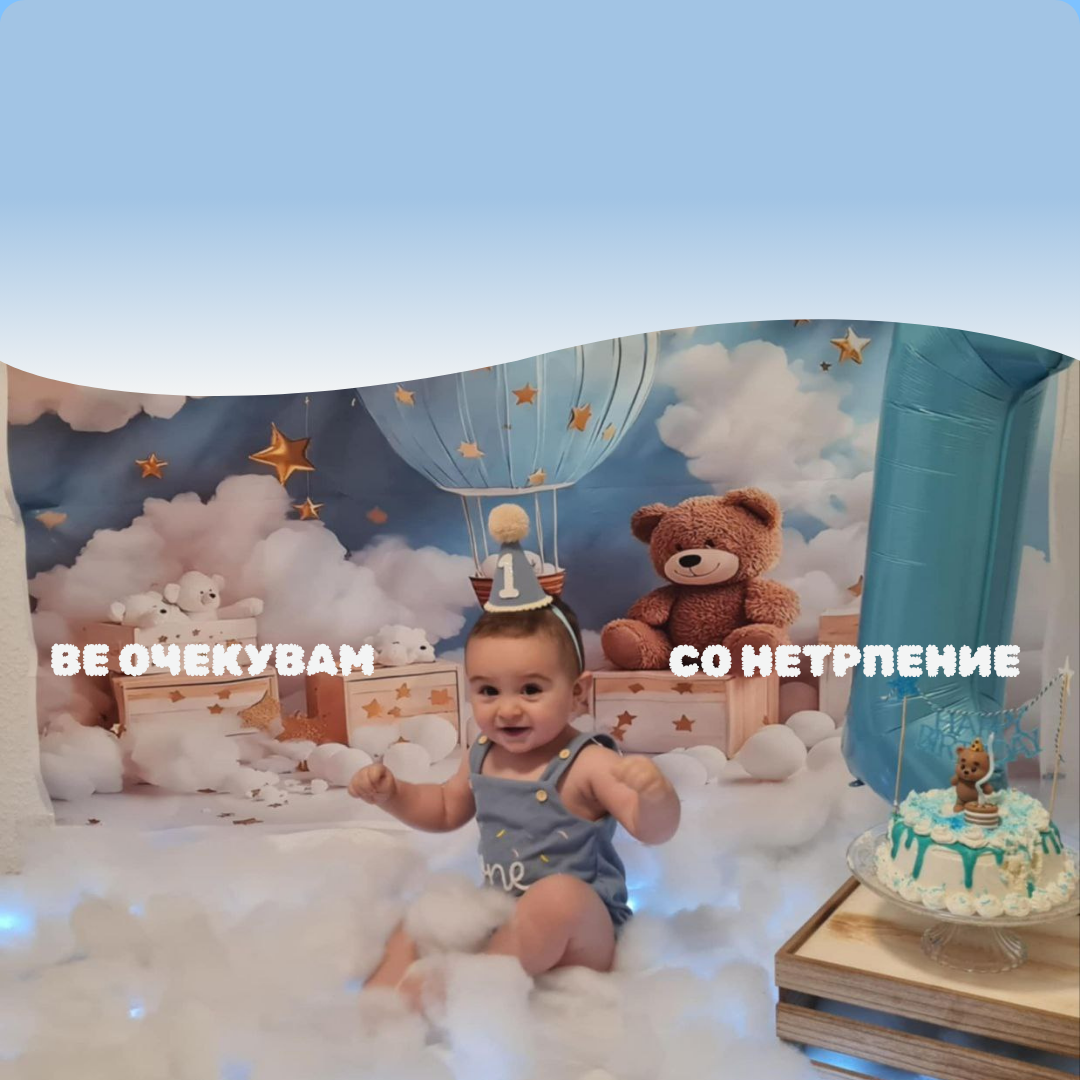
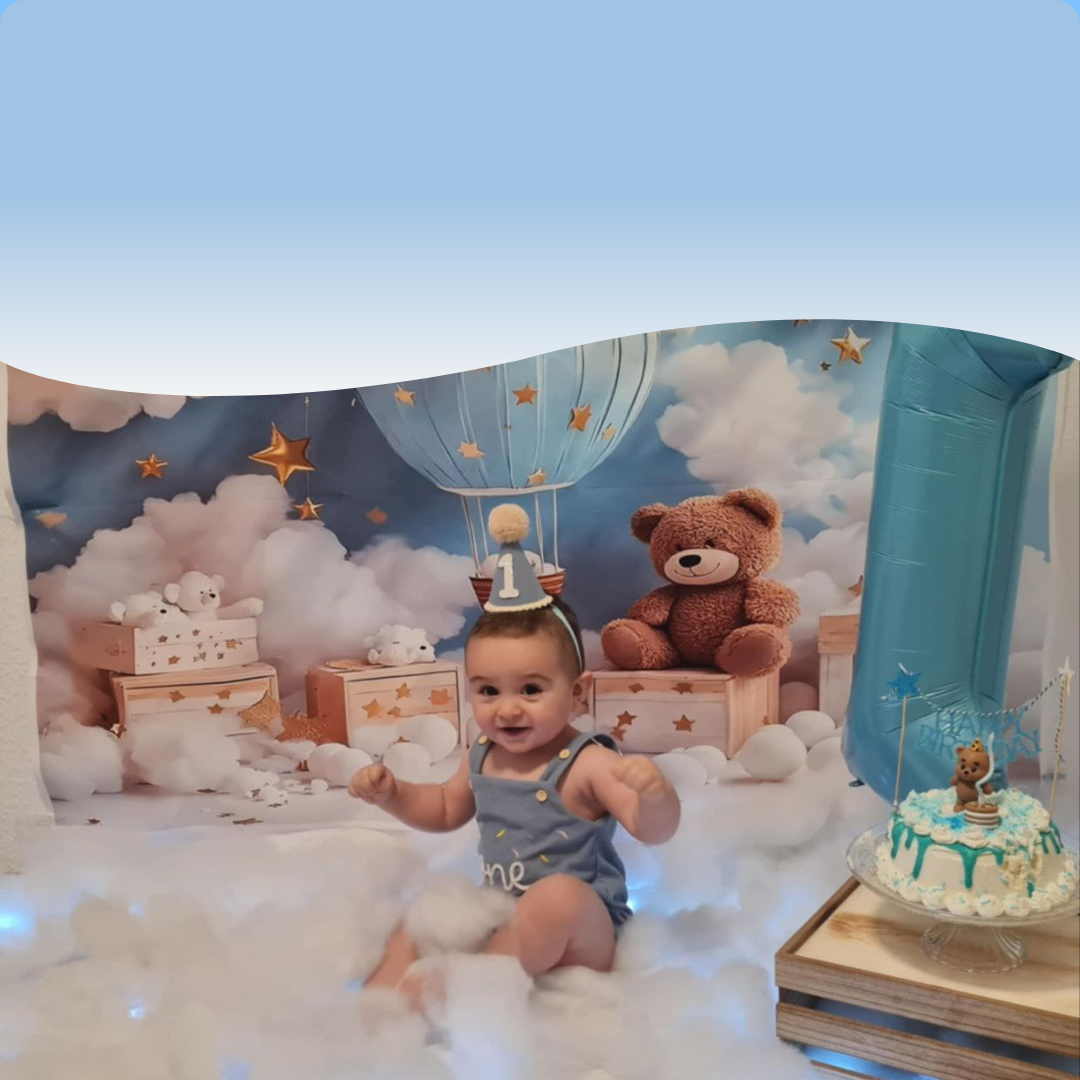
Refactor hero sections for improved layout and styling consistency

Changed region(s): [[0.6111, 0.5806, 0.9472, 0.6417], [0.0306, 0.5806, 0.3667, 0.6417]]

diff --git a/index.html b/index.html
@@ -21,15 +21,6 @@
       text-align: center;
     }
 
-    .hero, .hero2, .hero3 {
-      display: block;
-      width: 100%;
-      margin: 0;
-      padding: 0;
-      position: relative;
-      line-height: 0;
-    }
-
     .content {
       padding: 20px;
       background-color: #3a6ea5;
@@ -57,7 +48,7 @@
     }
 
     .countdown {
-      transform: translateY(50%);
+      margin-top: 20px;
       display: flex;
       justify-content: space-evenly;
       gap: 15px;
@@ -88,6 +79,21 @@
   display: block;
   width: 100%; /* ili originalna širina ako želiš */
   height: auto;
+}
+.hero3 {
+  background: url("./3.png") center/cover no-repeat;
+  width: 100%;
+  min-height: 60vh;
+}
+.p {
+  font-family: 'Baloo 2', cursive;
+  font-size: 2em;
+  font-weight: 600;
+  text-align: center;
+  color: rgb(224, 241, 255);
+  margin-top: 12%;
+  text-shadow:
+    5px 5px 8px rgba(0,0,0,0.3);
 }
 
   </style>
@@ -120,7 +126,7 @@
         <small>Секунди</small>
       </div>
     </div>
-  <img src="./3.png" alt="" class="responsive-img">
+    <p class="p">Ве очекувам со нетрпение!</p>
   </div>
   </div>
 
